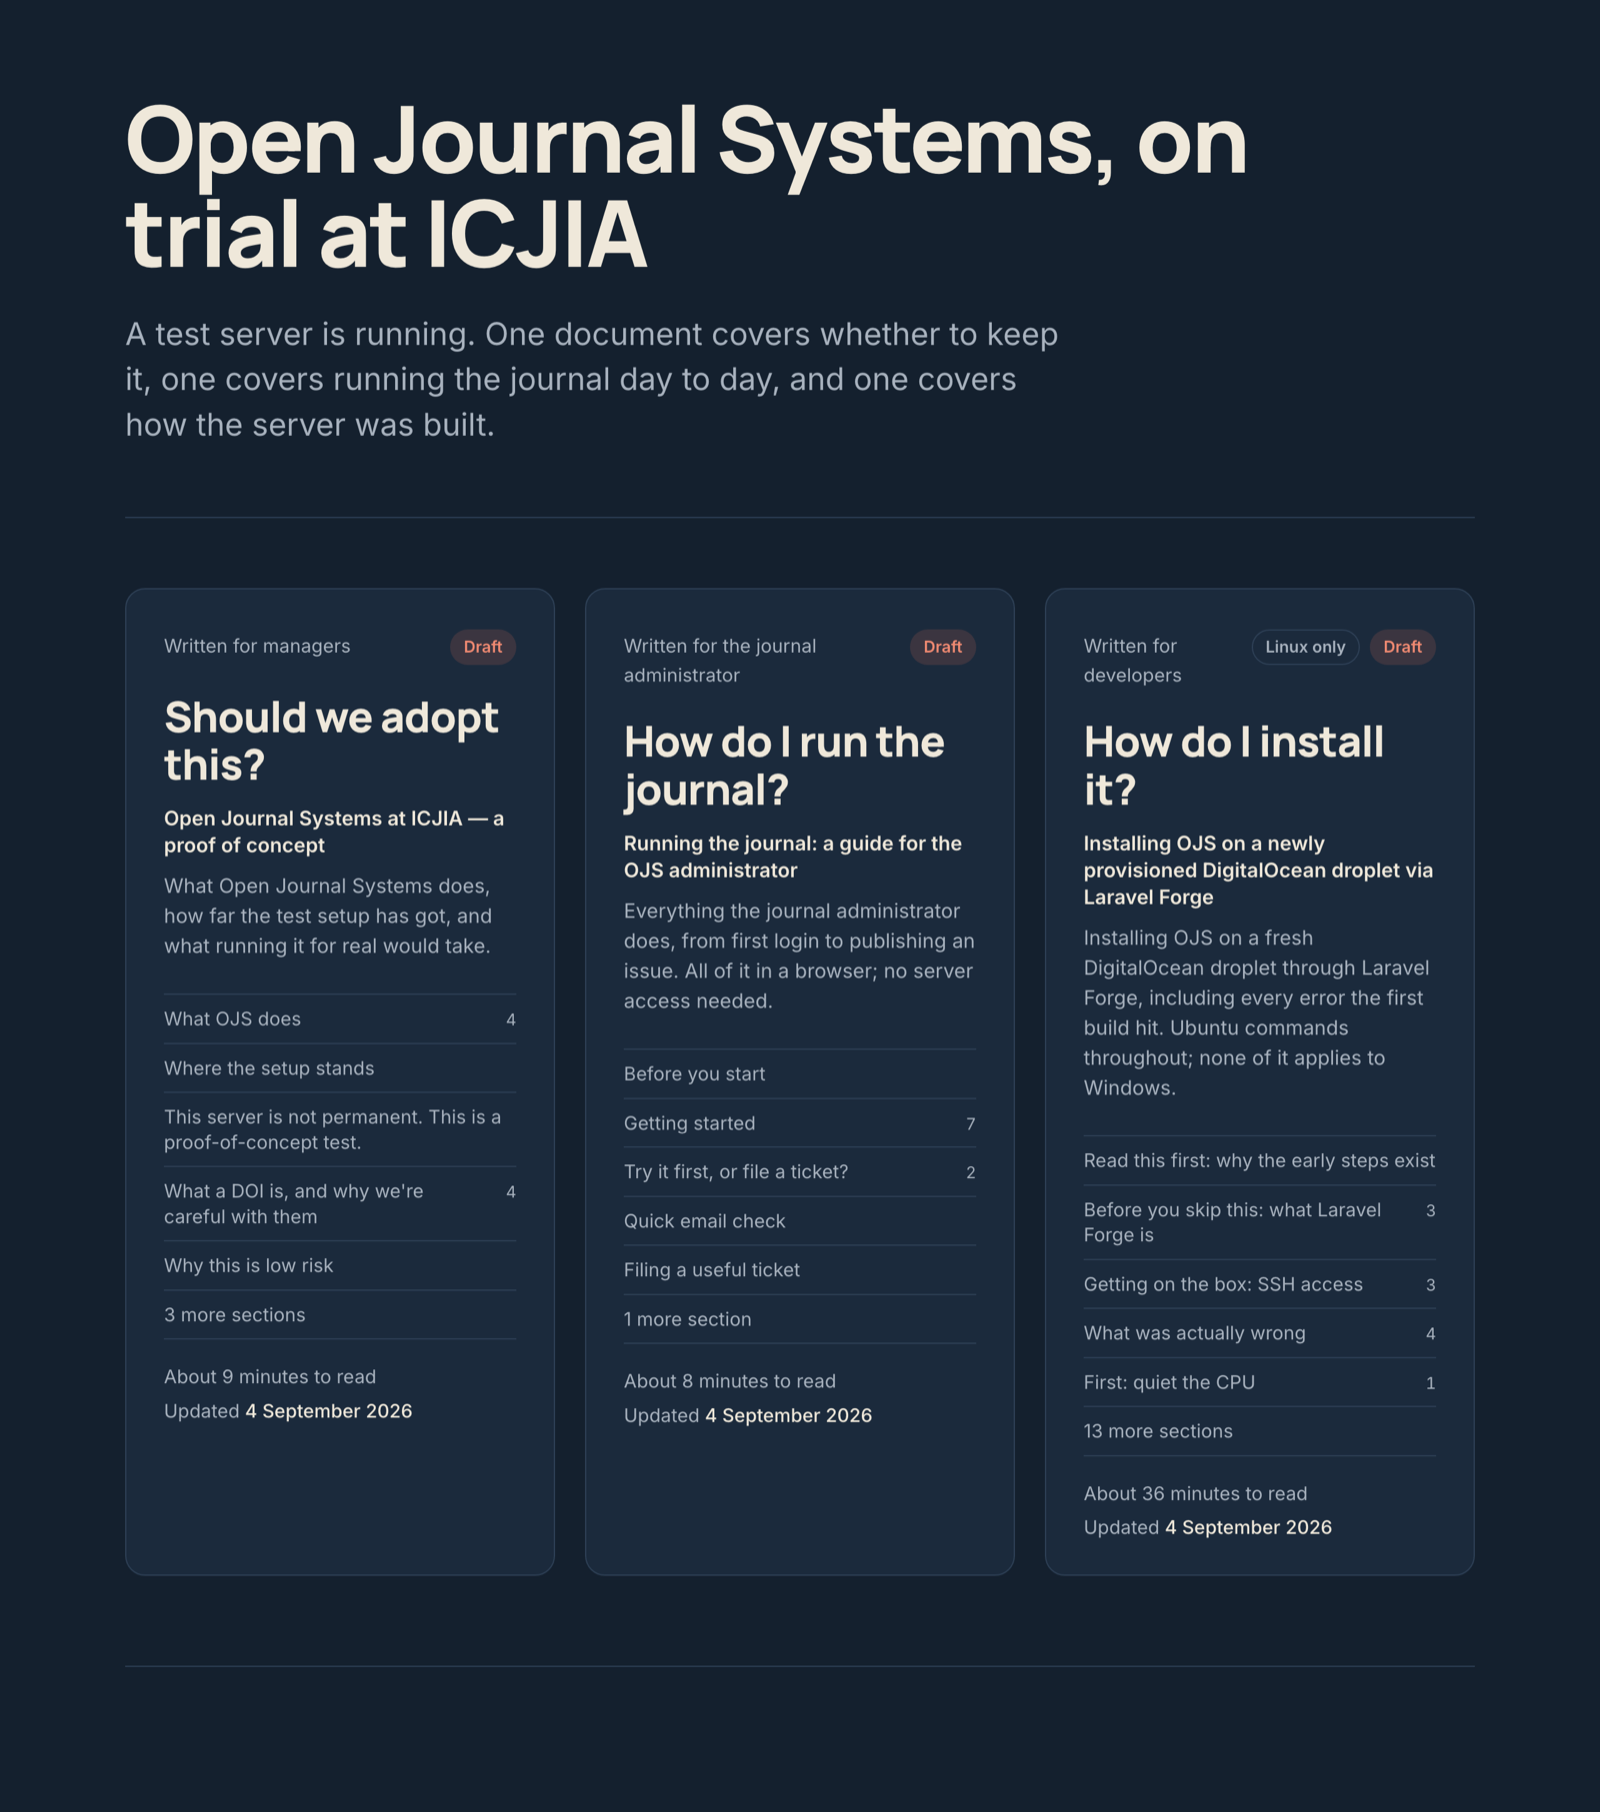
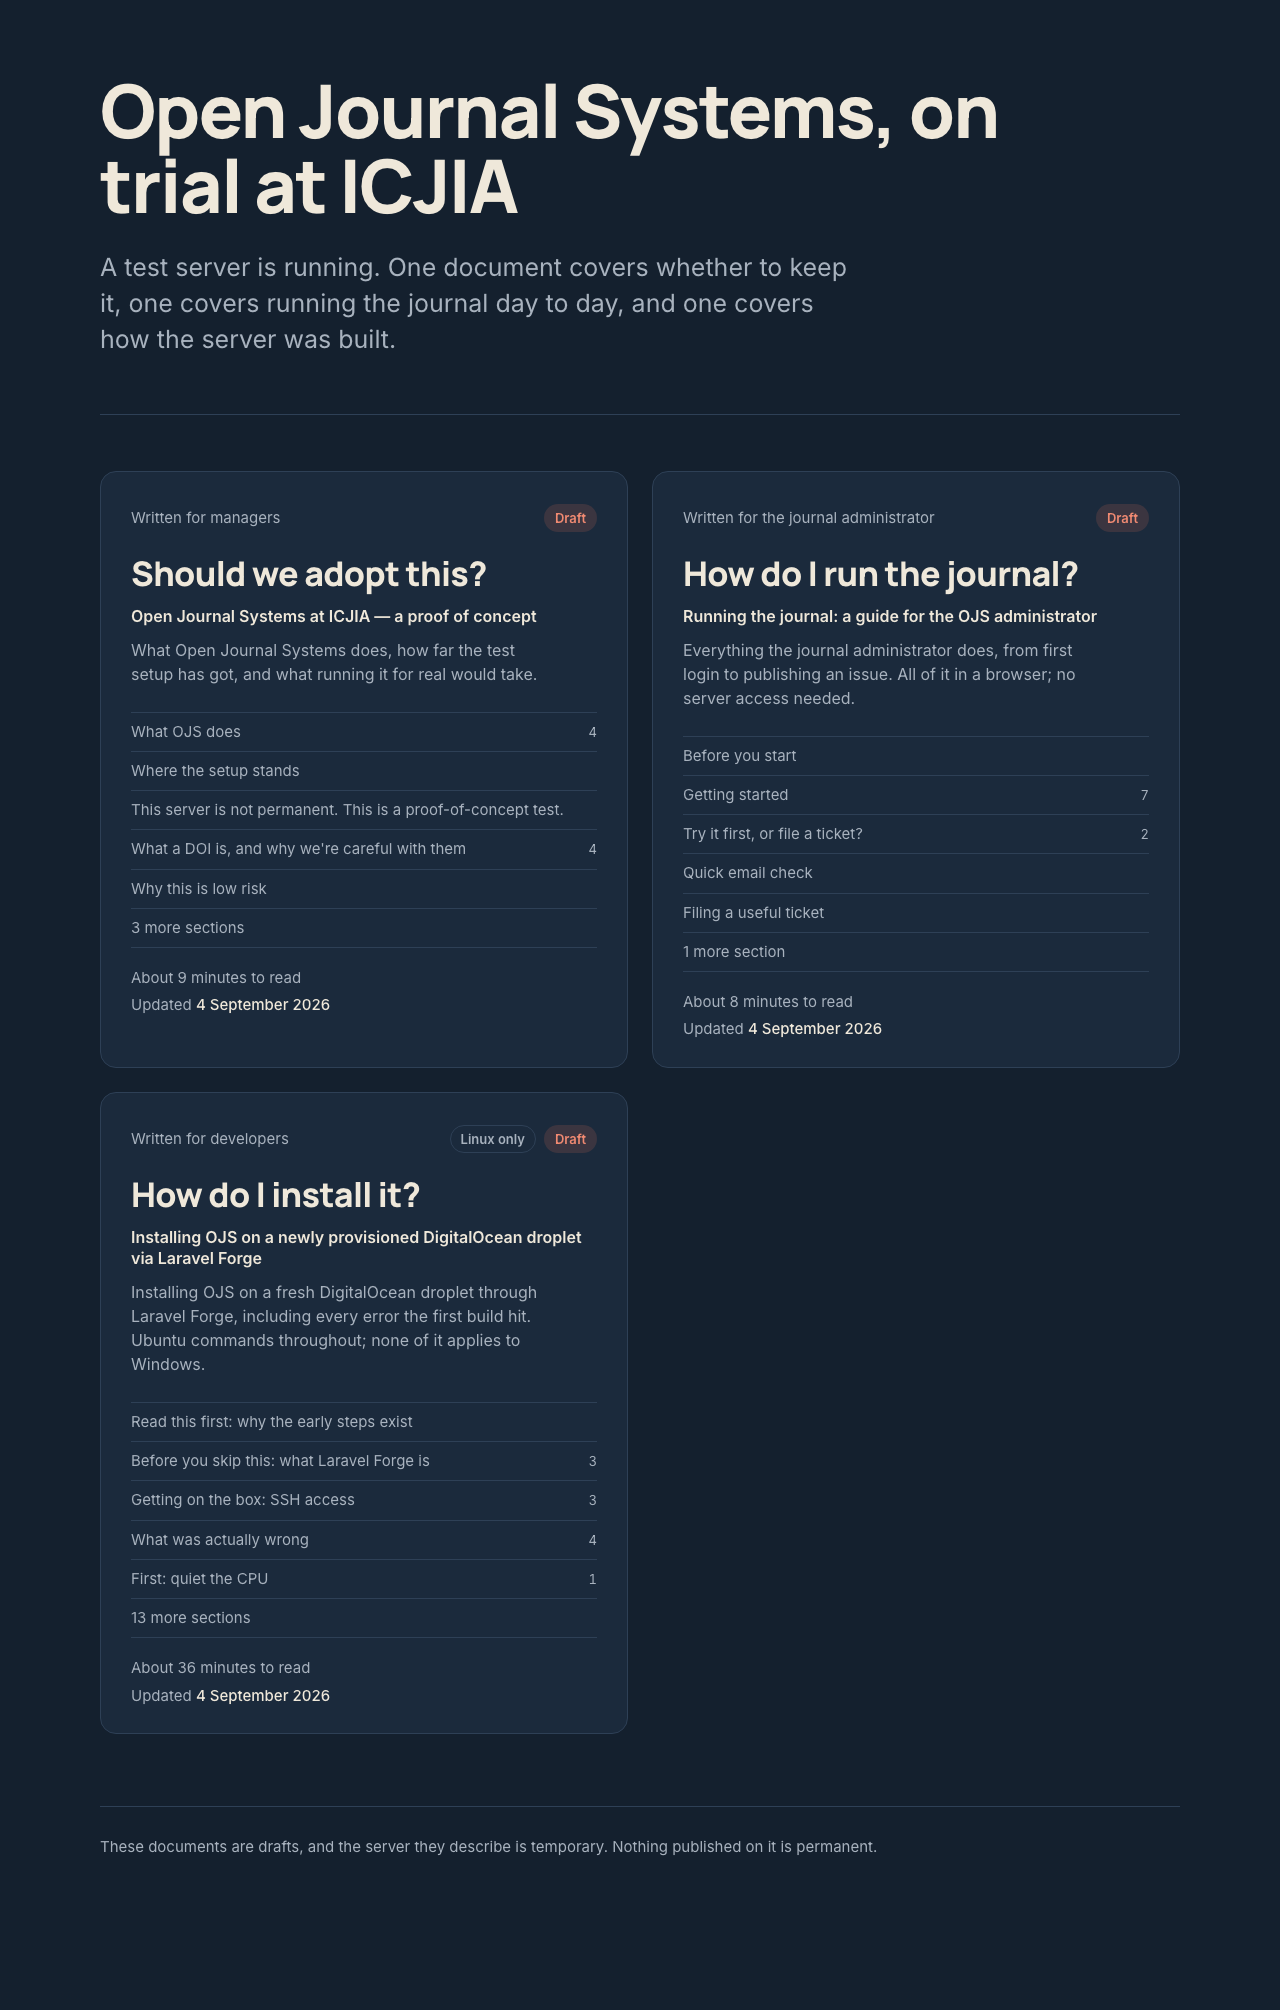
Two cards across, and show the documents in the README
Three cards abreast left each one cramped. A 420px track floor allows two at
desktop widths and never three, and min(420px, 100%) still collapses to one
on a phone. Checked from 320px to 1440px: two across down to 944px, one
below that, no horizontal overflow anywhere.

The colophon was capped at a 66-character measure while the rule above it
spanned the page, so its text broke mid-line and read as a fault rather than
a deliberate measure. It now runs the full width and wraps on its own.

Add screenshots of the portal and of a wrapped document, the latter showing
what the build contributes — sticky header, contents button, progress bar —
sitting above the source file's own steps and code blocks. They live in
docs/assets, so they ship with the repository but not with the site.

Also honour prefers-reduced-motion for scrolling. The documents set
scroll-behavior: smooth with no escape hatch, so jumping to a heading
animated even for a reader who asked the system for less motion; the shell
stylesheet loads after the document's own and can override it.

diff --git a/src/styles/portal.css b/src/styles/portal.css
@@ -108,7 +108,7 @@ body {
 
 .shelf {
   display: grid;
-  grid-template-columns: repeat(auto-fit, minmax(min(320px, 100%), 1fr));
+  grid-template-columns: repeat(auto-fit, minmax(min(420px, 100%), 1fr));
   gap: 24px;
   margin-top: 56px;
   align-items: start;
@@ -308,9 +308,7 @@ body {
   color: var(--paper-dim);
 }
 
-/* Constrain the text, not the rule above it. */
 .colophon p {
-  max-width: var(--measure);
   margin: 0;
 }
 

diff --git a/src/styles/document-shell.css b/src/styles/document-shell.css
@@ -255,6 +255,13 @@
   .px-progress {
     transition: none;
   }
+
+  /* The documents set scroll-behavior: smooth with no escape hatch. Jumping to
+     a heading from the contents panel should not animate for a reader who has
+     asked the system for less motion. */
+  html {
+    scroll-behavior: auto;
+  }
 }
 
 @media print {

diff --git a/CHANGELOG.md b/CHANGELOG.md
@@ -5,6 +5,27 @@ All notable changes to this project are documented here.
 The format follows [Keep a Changelog](https://keepachangelog.com/en/1.1.0/),
 and this project adheres to [Semantic Versioning](https://semver.org/spec/v2.0.0.html).
 
+## [1.4.0] - 2026-09-04
+
+### Changed
+
+- **Two document cards across at most.** Three abreast left each card cramped;
+  a 420px track floor allows two at desktop widths and never three, and still
+  collapses to one on a phone. Verified from 320px to 1440px with no horizontal
+  overflow at any width.
+- **The colophon runs the full width of its rule.** It had been capped at a
+  66-character measure while the rule above it spanned the page, so the text
+  broke mid-line and read as a fault rather than a measure.
+
+### Added
+
+- Screenshots of the portal and of a wrapped document in the README.
+- **Documents now honour `prefers-reduced-motion` for scrolling.** They set
+  `scroll-behavior: smooth` with no escape hatch, so jumping to a heading from
+  the contents panel animated even for a reader who had asked the system for
+  less motion. The shell stylesheet overrides it, as it loads after the
+  document's own.
+
 ## [1.3.0] - 2026-09-04
 
 ### Added
@@ -203,6 +224,7 @@ Title II / IITAA review would expect.
 The contrast, heading-order and personal-name changes were made in the source
 documents, so the standalone files carry them too.
 
+[1.4.0]: https://github.com/ICJIA/icjia-ojs-docs/releases/tag/v1.4.0
 [1.3.0]: https://github.com/ICJIA/icjia-ojs-docs/releases/tag/v1.3.0
 [1.2.0]: https://github.com/ICJIA/icjia-ojs-docs/releases/tag/v1.2.0
 [1.1.0]: https://github.com/ICJIA/icjia-ojs-docs/releases/tag/v1.1.0

diff --git a/README.md b/README.md
@@ -30,7 +30,15 @@ before changing any styling.
   </a>
 </p>
 
-<p align="center"><em>The portal at <a href="https://ojs-docs.netlify.app">ojs-docs.netlify.app</a>. Each card's sections, counts, reading time and date are read out of the document itself at build time.</em></p>
+<p align="center"><em>The portal. Each card's sections, counts, reading time and date are read out of the document itself at build time.</em></p>
+
+<p align="center">
+  <a href="https://ojs-docs.netlify.app/docs/droplet-runbook/">
+    <img src="docs/assets/runbook.png" alt="A document page: the portal's sticky header — back link, document title, Contents button — above the runbook's own numbered diagnostic steps, code blocks with copy buttons, and a warning callout." width="900">
+  </a>
+</p>
+
+<p align="center"><em>A wrapped document. The header, contents panel and reading-progress bar are added by the build; everything below is the source file, unmodified.</em></p>
 
 ## Adding a document
 
